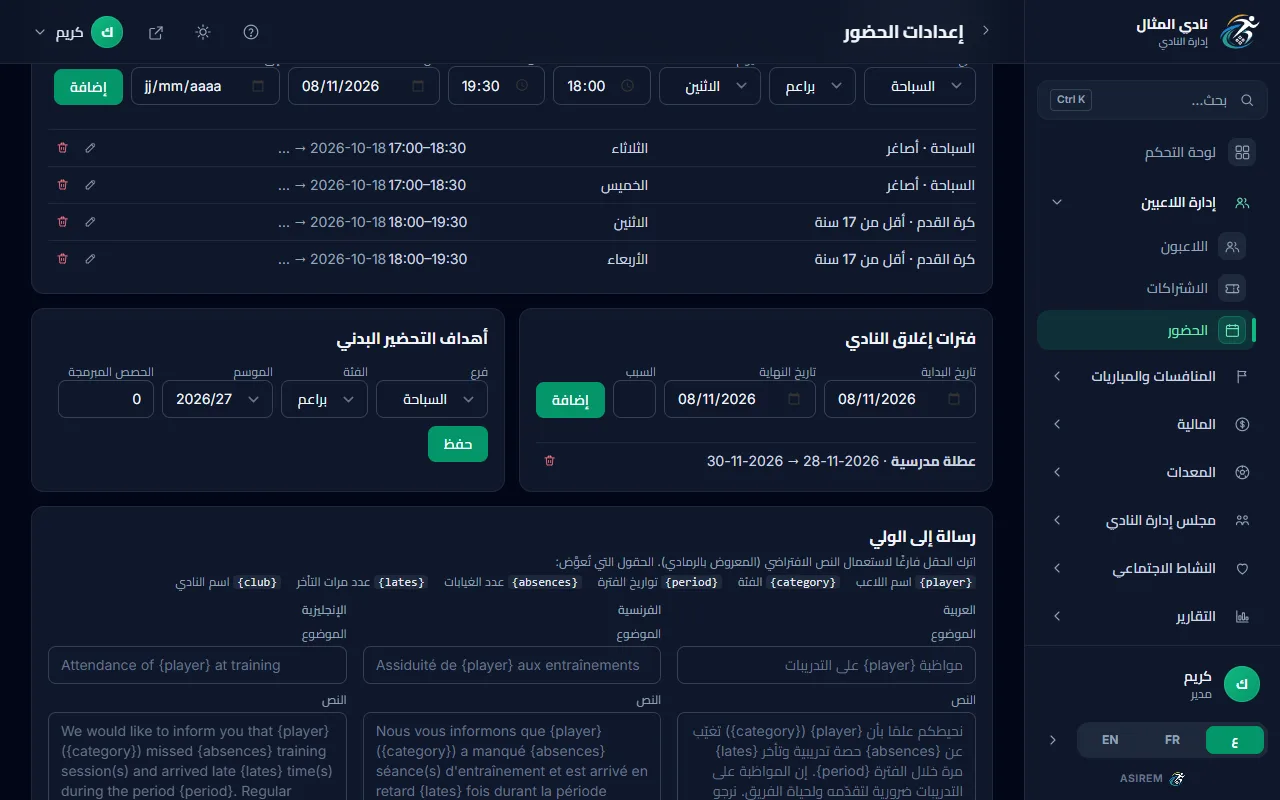
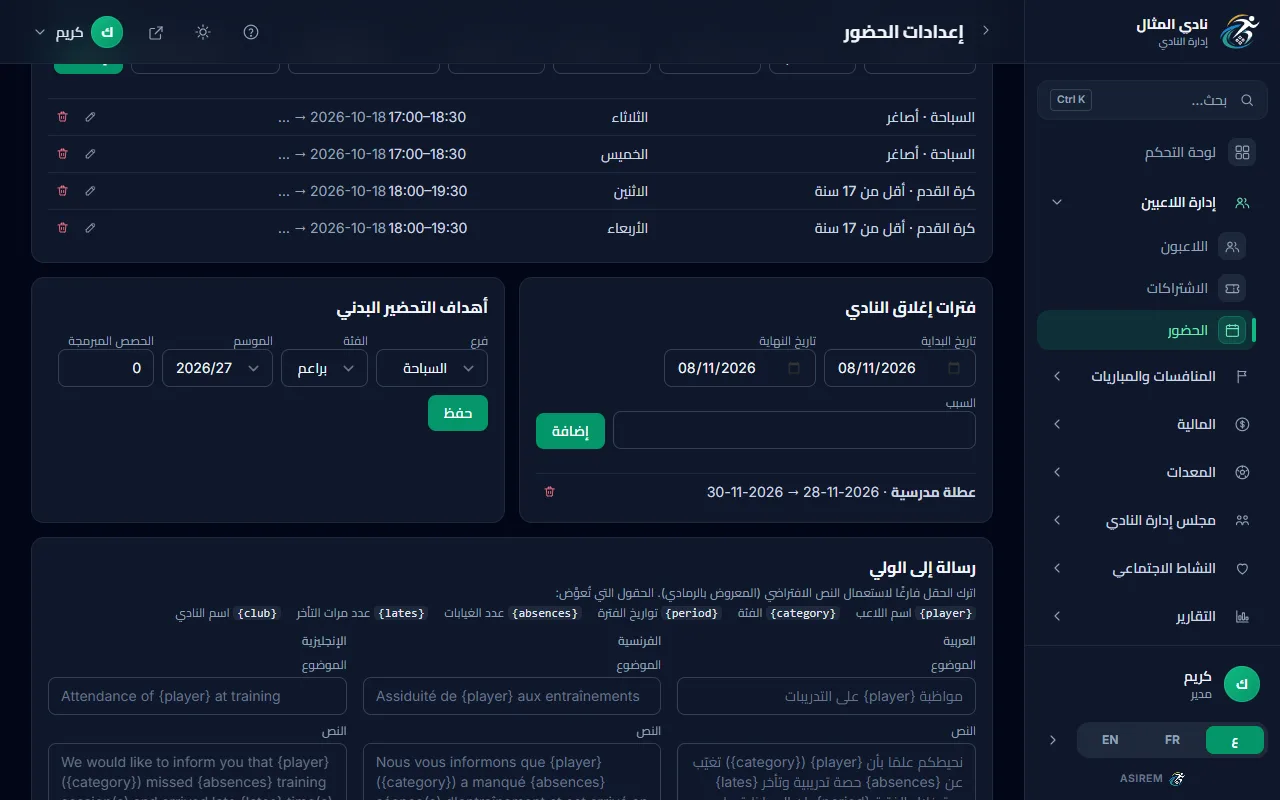
fix(help): timetable and codes/rules review fixes
Widen the closure «السبب» field (min-w-[10rem], class only) and
regenerate the settings shots it moved. Facts instead of instructions
after the steps; the pre-season target becomes one sentence (7-step
cap), so the set-targets shot is dropped. Accurate duplicate-code text
and wording fixes in codes-rules.

diff --git a/resources/help/shots.js b/resources/help/shots.js
@@ -566,20 +566,8 @@ export default [
     },
     // After «إضافة»: the form is reset and the closure is listed under it (the demo's own).
     { name: 'set-closure', url: '/attendance/settings', targets: ['set-closures', 'set-closure-list'], before: (page) => centre(page, 'set-closures') },
-    {
-        // The pre-season target: Football, U17, this season (the default season); the
-        // form then shows the saved 12 by itself (Settings.vue's target watch).
-        name: 'set-targets',
-        url: '/attendance/settings',
-        targets: ['set-targets', 'set-target-save'],
-        before: async (page) => {
-            const card = page.locator('[data-help="set-targets"]');
-            await card.locator('select').nth(0).selectOption({ label: 'كرة القدم' });
-            await card.locator('select').nth(1).selectOption({ label: 'أقل من 17 سنة' });
-            await blur(page);
-            await centre(page, 'set-targets');
-        },
-    },
+    // No set-targets shot: after review the timetable article describes the «أهداف التحضير
+    // البدني» card in one sentence instead of a step (7-step cap), so nothing rings it.
     // The codes-rules example: «ت» instead of «R» for «متأخر», the unexcused-streak alert
     // at 3 (the default, left as it is), then a custom code «س» «مسافر» = «غائب بعذر».
     {

diff --git a/resources/js/Pages/Attendance/Settings.vue b/resources/js/Pages/Attendance/Settings.vue
@@ -196,7 +196,7 @@ function destroyCustom(s) {
                 <form data-help="set-closure-form" class="mb-4 flex flex-wrap items-end gap-2" @submit.prevent="submitClosure">
                     <label class="text-xs text-slate-500 dark:text-slate-400">{{ t('att.start_date') }}<input v-model="closureForm.start_date" type="date" :class="[input, 'block']" /></label>
                     <label class="text-xs text-slate-500 dark:text-slate-400">{{ t('att.end_date') }}<input v-model="closureForm.end_date" type="date" :class="[input, 'block']" /></label>
-                    <label class="flex-1 text-xs text-slate-500 dark:text-slate-400">{{ t('att.reason') }}<input v-model="closureForm.reason" type="text" maxlength="100" :class="[input, 'block w-full']" /></label>
+                    <label class="min-w-[10rem] flex-1 text-xs text-slate-500 dark:text-slate-400">{{ t('att.reason') }}<input v-model="closureForm.reason" type="text" maxlength="100" :class="[input, 'block w-full']" /></label>
                     <button data-help="set-closure-add" type="submit" :disabled="closureForm.processing" class="rounded-lg bg-primary-600 px-4 py-2 text-sm font-semibold text-white hover:bg-primary-700">{{ t('att.add') }}</button>
                     <div class="w-full"><InputError v-for="(e, k) in closureForm.errors" :key="k" :message="e" /></div>
                 </form>

diff --git a/resources/help/ar/attendance/timetable.md b/resources/help/ar/attendance/timetable.md
@@ -9,7 +9,7 @@ related: [attendance/take-attendance, attendance/codes-rules]
 اكتب أيام تدريب كل فئة وساعاتها في «إعدادات الحضور». يضع التطبيق الحصص في التقويم، أسبوعًا بعد أسبوع.
 
 :::example
-فئة «أقل من 17 سنة» في «كرة القدم» تتدرّب الاثنين والأربعاء، من 18:00 إلى 19:30. يضيف المدرب حصة **الجمعة** في الساعات نفسها. ثم يُغلق النادي ثلاثة أيام من أجل «عطلة مدرسية». وللفئة 12 حصة تحضير بدني مبرمجة هذا الموسم.
+فئة «أقل من 17 سنة» في «كرة القدم» تتدرّب الاثنين والأربعاء، من 18:00 إلى 19:30. يضيف المدرب حصة **الجمعة** في الساعات نفسها. ثم يُغلق النادي ثلاثة أيام من أجل «عطلة مدرسية».
 :::
 
 :::step افتح صفحة «الحضور»
@@ -33,7 +33,7 @@ related: [attendance/take-attendance, attendance/codes-rules]
 :::
 
 :::step اكتب أيام الإغلاق
-في بطاقة «فترات إغلاق النادي»، اختر أول يوم في «تاريخ البداية». اختر آخر يوم في «تاريخ النهاية». في «السبب»، اكتب «عطلة مدرسية». السبب إجباري. الخانة ضيقة، فلا يظهر إلا أول ما تكتبه.
+في بطاقة «فترات إغلاق النادي»، اختر أول يوم في «تاريخ البداية». اختر آخر يوم في «تاريخ النهاية». في «السبب»، اكتب «عطلة مدرسية». السبب إجباري.
 ::figure set-closure-filled ring=set-closure-form
 :::
 
@@ -43,18 +43,13 @@ related: [attendance/take-attendance, attendance/codes-rules]
 ::figure set-closure ring=set-closure-list
 :::
 
-:::step احفظ عدد حصص التحضير البدني
-هذه الخطوة اختيارية. في بطاقة «أهداف التحضير البدني»، اختر «كرة القدم» ثم «أقل من 17 سنة». يظهر في «الموسم» الموسم الحالي. ويظهر في «الحصص المبرمجة» العدد المحفوظ: 12. لتغييره، اكتب عددًا من 0 إلى 200، ثم اضغط «حفظ» في هذه البطاقة. تظهر عبارة «تم حفظ عدد حصص التحضير.».
-::figure set-targets ring=set-targets,set-target-save
-:::
-
 الإغلاق لا يحذف حصة سُجّل حضورها، ولا حصة أضفتها بيدك.
 
-لتغيير سطر في «التوقيت الأسبوعي»، اضغط زر القلم في آخره. لحذفه، اضغط زر سلة المهملات. يحذف التطبيق حصصه القادمة التي لم يُسجَّل حضورها. ثم يضع الحصص الجديدة إن عدّلت السطر.
+في آخر كل سطر من «التوقيت الأسبوعي» زر قلم يغيّر السطر، وزر سلة مهملات يحذفه. في الحالتين، تُحذف حصصه القادمة التي لم يُسجَّل حضورها. بعد التغيير، يضع التطبيق حصص السطر الجديدة.
 
-حذفت فترة إغلاق بزر سلة المهملات؟ يعيد التطبيق حصص تلك الأيام إلى التقويم.
+حذف فترة إغلاق بزر سلة المهملات يعيد حصص تلك الأيام إلى التقويم.
 
-يُختار في «الموسم» الموسم الحالي أو الموسم القادم. في التقويم، تُظهر خانة «التحضير البدني» التقدّم: «1/12» تعني حصة منجزة من 12.
+بطاقة «أهداف التحضير البدني» تحفظ عدد حصص التحضير المبرمجة لكل فئة، من 0 إلى 200، للموسم الحالي أو القادم. في التقويم، تُظهر خانة «التحضير البدني» التقدّم: «1/12» تعني حصة منجزة من 12.
 
 :::tip
 لا تُضف حصص الأسبوع واحدة واحدة. بعد «إضافة»، تظهر وحدها في التقويم كل أسبوع، من تاريخ «من».

diff --git a/resources/help/ar/attendance/codes-rules.md b/resources/help/ar/attendance/codes-rules.md
@@ -44,11 +44,11 @@ related: [attendance/month-grid, attendance/timetable]
 
 بعد الحفظ، يكتب المدرب «ت15» في «جدول الشهر» لتأخر 15 دقيقة. تغيير الرمز لا يغيّر الحضور المسجّل.
 
-رمز مكرّر؟ تظهر تحت اسم الحالة عبارة «هذا الرمز مستعمل لحالة أخرى.»، ولا يُحفظ شيء.
+الرمز المكرّر لا يُحفظ، وتظهر عبارة «هذا الرمز مستعمل لحالة أخرى.». في «الرموز والألوان» تظهر تحت اسم الحالة. وفي «رموز إضافية» تظهر تحت الخانات.
 
-في سطر كل حالة أيضًا «اللون» و«النقاط». النقاط من −5 إلى 5، بربع نقطة. تحسب ترتيب اللاعبين والتنبيهات فقط. أعداد الحالات في التقارير لا تتغيّر.
+في سطر كل حالة أيضًا «اللون» و«النقاط». النقاط من −5 إلى 5، بربع نقطة. تدخل في حساب ترتيب اللاعبين والتنبيهات فقط. أعداد الحالات في التقارير لا تتغيّر.
 
-بجانب «التنبيهات»، «قواعد الانضباط»، وفي خانتيها 3 و30 من قبل. الأولى: كل 3 تأخرات تُحسب في النقاط غيابًا بدون عذر. الثانية: التأخر أكثر من 30 دقيقة يُحسب في النقاط غيابًا بدون عذر. الصفر يوقف القاعدة.
+«قواعد الانضباط» بجانب «التنبيهات»، وفيها 3 و30 من قبل. الأولى: كل 3 تأخرات تُحسب في النقاط غيابًا بدون عذر. الثانية: التأخر أكثر من 30 دقيقة يُحسب في النقاط غيابًا بدون عذر. الصفر يوقف القاعدة.
 
 «يُحتسب كـ» له أربع قيم: «حاضر»، «غائب بعذر»، «غائب بدون عذر»، «لا يُحتسب». «لا يُحتسب» تُخرج الحصة من حساب اللاعب.
 
